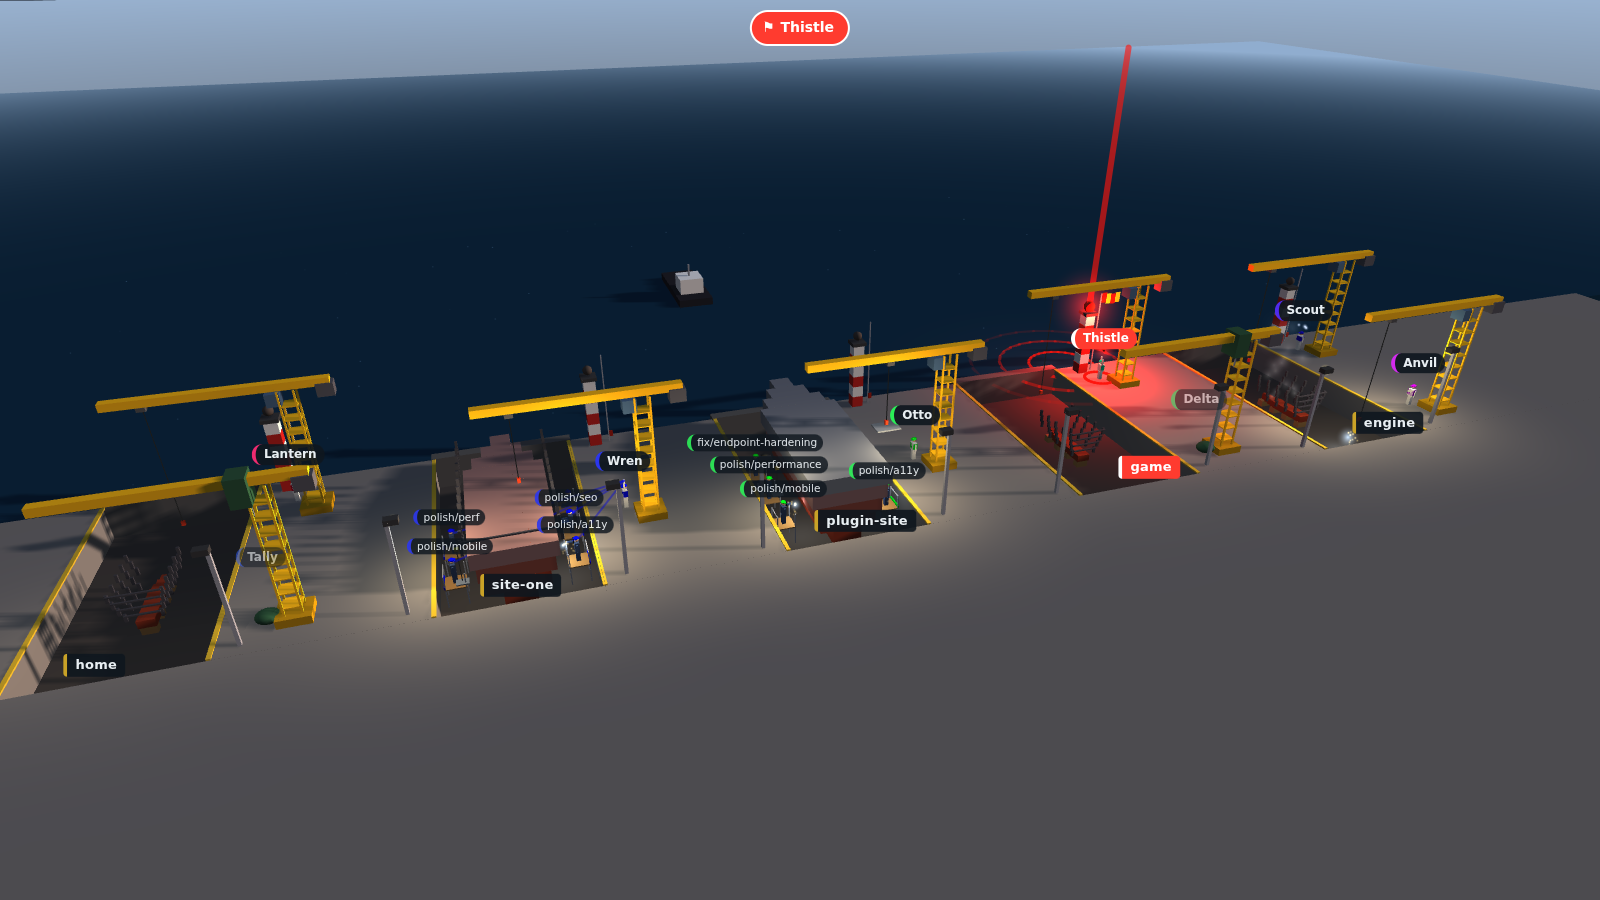
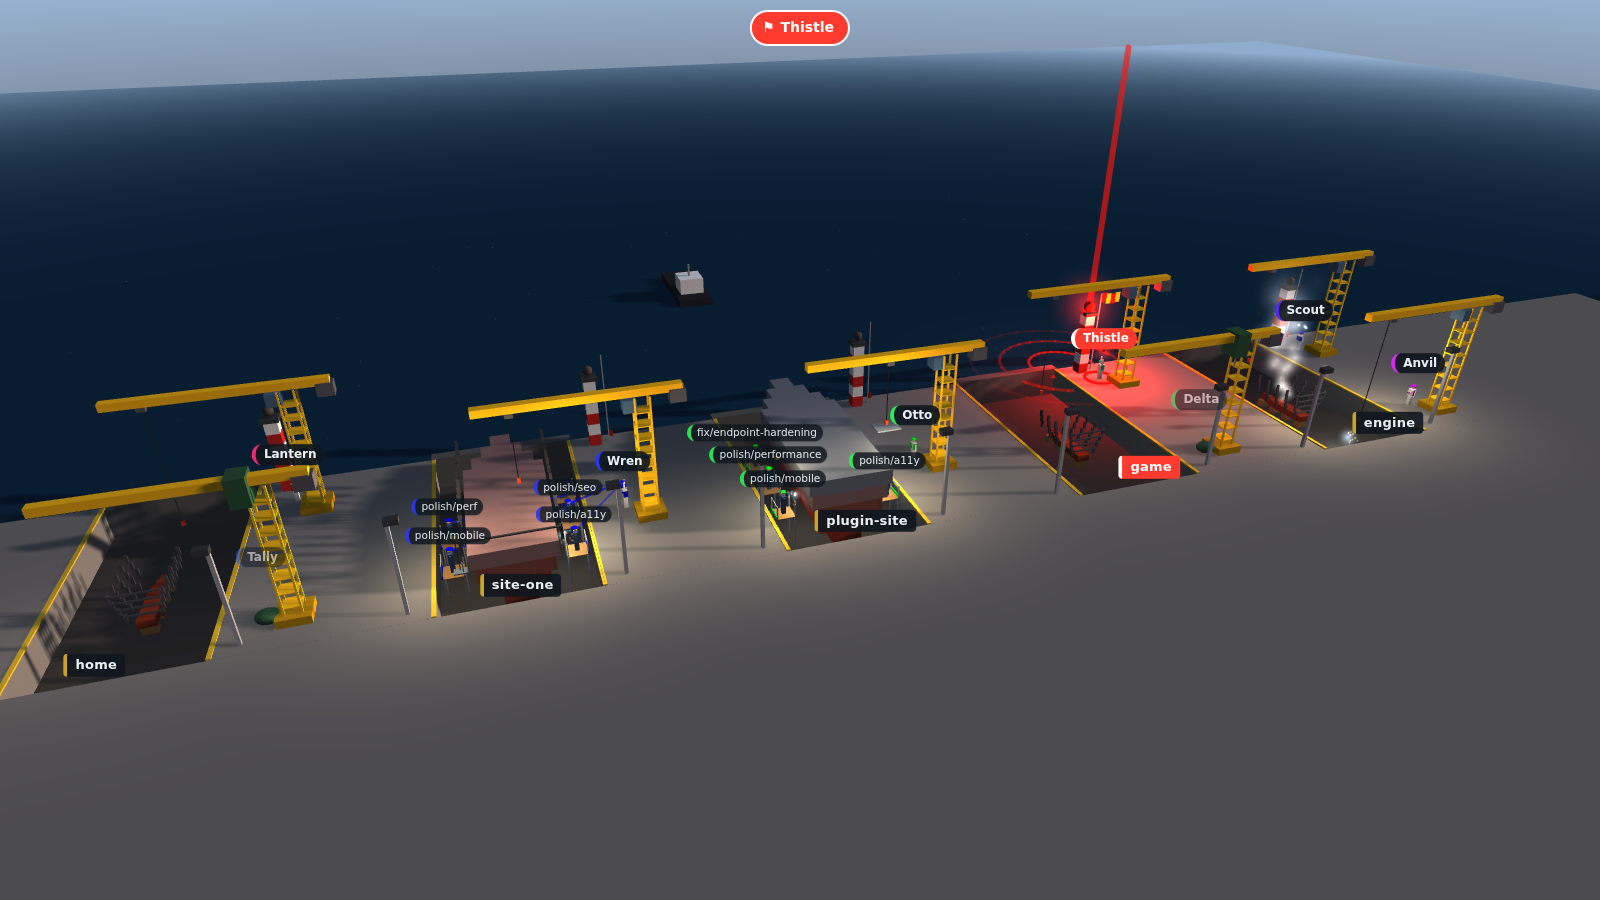
README screenshots from the fixture feed; keep panel buttons across polls
Hero, two more angles, close-ups (lead + crew, waiting, idle + offline,
stalled, resting), desktop panel, phone bottom sheet and a 5 s GIF, all
regenerated by tests/screenshots.cjs. The panel and banner no longer
re-render when a poll changes nothing, so a tap in flight is not lost.

Claude-Session: https://claude.ai/code/session_01LYNeukFY6qMGdbKQJnTwr8

Changed region(s): [[0.4375, 0.4667, 0.5938, 0.5911], [0.25, 0.5289, 0.4062, 0.6533], [0.7812, 0.3111, 0.8125, 0.4356]]

diff --git a/web/shipyard.js b/web/shipyard.js
@@ -247,6 +247,8 @@
     } else if (f.kind === 1) {
       html += `<div class="crew"><button class="crewman" data-id="${esc(f.lead.id)}" style="--c:${f.col.css}"><i>↑</i>${esc(f.lead.data.name)}</button></div>`;
     }
+    if (sheet._html === html) return;  // a poll that changed nothing keeps the buttons (and a tap in flight)
+    sheet._html = html;
     sheet.innerHTML = html;
     $("close").onclick = () => select(null);
     for (const b of sheet.querySelectorAll(".crewman")) b.onclick = () => select(figById.get(b.dataset.id), true);
@@ -256,6 +258,9 @@
     const el = $("needs");
     const waiting = (doc.sessions || []).filter((s) => s.state === "waiting");
     el.hidden = !waiting.length;
+    const key = waiting.map((s) => s.id + ":" + s.name).join("|");
+    if (el._key === key) return;
+    el._key = key;
     el.innerHTML = waiting.map((s) => `<button data-id="${esc(s.id)}"><span class="flag">⚑</span>${esc(s.name)}</button>`).join("");
     for (const b of el.querySelectorAll("button")) b.onclick = () => select(figById.get(b.dataset.id), true);
   }

diff --git a/README.md b/README.md
@@ -63,9 +63,10 @@ so its crane cab and spot on the quay are tarped.*
 *`stalled`: Scout has been busy without writing anything for over five
 minutes, so the `engine` hull smokes. Anvil, beside it, is welding.*
 
-![A welder sitting on the scaffold edge at the site-one dock](docs/media/closeup-resting.png)
+![Wren's resting welder sitting on its scaffold bay beside the site-one hull, with its panel open](docs/media/closeup-resting.png)
 
-*A resting subagent: Wren's `tests + docs` welder sits on the scaffold edge.*
+*A resting subagent, selected: Wren's `tests + docs` welder sits down on its
+scaffold bay while the other lanes weld and read. Wren waves her crews on.*
 
 ## Other angles
 
